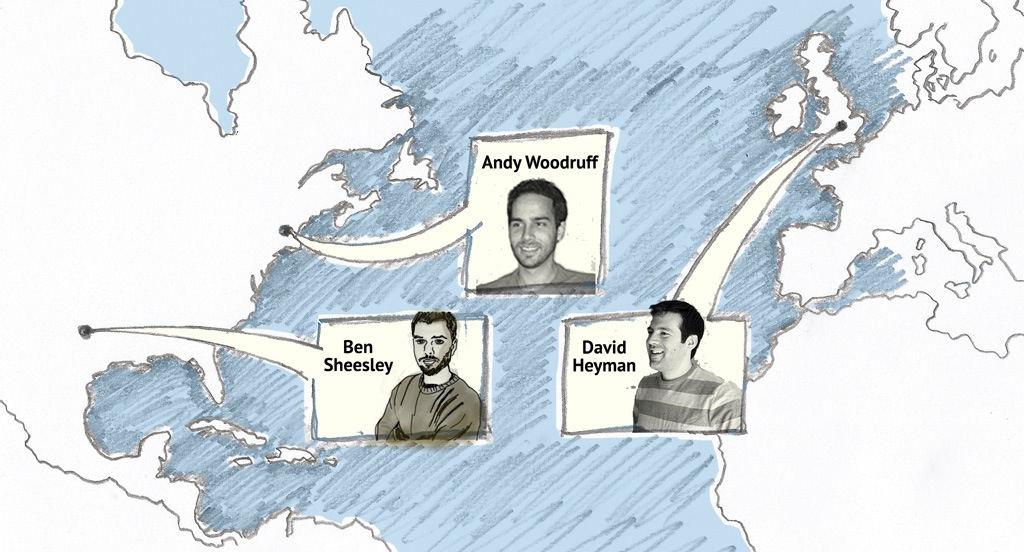
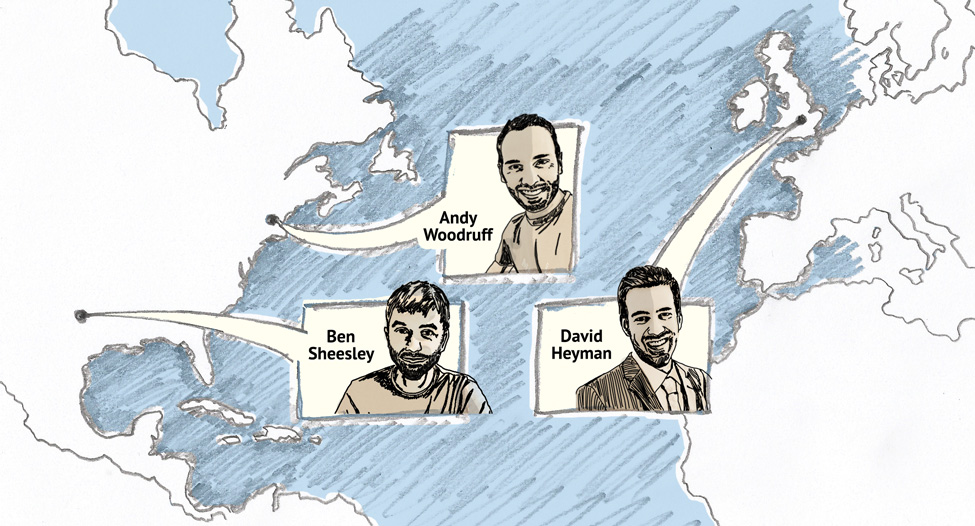
First shot at a finalized company page

Changed region(s): [[0.3077, 0.2129, 0.5846, 0.8213], [0.5538, 0.4867, 0.7385, 0.7909]]

diff --git a/css/main.css b/css/main.css
@@ -670,6 +670,32 @@ p.more span{
 	bottom: 0;
 	color: white;
 }
+
+.headshot{
+	height: 70px;
+	width: 70px;
+	border-radius: 50%;
+	float: left;
+	background-size: cover;
+	margin: 15px -50px 0 0;
+}
+
+.headshot + h3{
+	text-indent: 0;
+}
+
+#andy .headshot{
+	background-image: url(../images/andy.jpg);
+}
+
+#ben .headshot{
+	background-image: url(../images/ben.jpg);
+}
+
+#dave .headshot{
+	background-image: url(../images/dave.jpg);
+}
+
 @media (max-width: 520px) {
 	.logo {
 		width: 70%;

diff --git a/company.php b/company.php
@@ -11,19 +11,45 @@
 		<div id='container'>
 			<?php include('include/header.php'); ?>
 			<?php include('include/nav.php'); ?>
+			<section id="trio">
+				<h2 class="ribbon">We are Axis Maps:</h2>
+				<article id="dave" style="height:auto">
+					<div class="headshot"></div>
+					<h3>Dave</h3>
+					<ul>
+						<li>Managing Director</li>
+						<li>Development backup</li>
+						<li>Chief organizer</li>
+					</ul>
+				</article>
+				<article id="ben" style="height:auto">
+					<div class="headshot"></div>
+					<h3>Ben</h3>
+					<ul>
+						<li>UI and map designer</li>
+						<li>Map store coordinator</li>
+						<li>Stickler for details</li>
+					</ul>
+				</article>
+				<article id="andy" style="height:auto">
+					<div class="headshot"></div>
+					<h3>Andy</h3>
+					<ul>
+						<li>Lead developer</li>
+						<li>Cartographic stalwart</li>
+						<li>Academic cartography ambassador</li>
+				</article>
+			</section>
+			<img src="images/map.jpg" style="width:100%" />
 			<section class='axis-summary' id="history">
-				<h2 class='ribbon'>Company Past</h2>
-				<p>Axis Maps was formed in 2006 by 3 graduate students finishing their advanced degrees in Geography at the University of Wisconsin-Madison. Having originally entered grad school to study traditional print cartography and GIS, we quickly became engaged with the rapidly changing field of interactive mapping. Google Maps had launched the previous spring, while more and more internet users were growing accustomed to having interactive maps as a part of their online lives. However, we were surprised to see that the cartographic fundamentals and traditions we had been studying were largely absent from these new maps. Instead, these maps focused on the technical aspects of delivering geographic content over the web at the expense of clear communication through cartographic design.</p>
-				<p>We formed Axis Maps to bring Cartography to a field that was being dominated by Computer Science. While other companies focused on algorithms, we developed intuitive user-interfaces. Where they were building software to reach the broadest market possible, we designed custom maps to make sure each map was right for our customer.</p>
+				<h2 class='ribbon'>Our Story</h2>
+				<p>Axis Maps was formed in 2006 by 3 graduate students finishing their advanced degrees in Geography at the University of Wisconsin-Madison. Having originally entered grad school to study traditional print cartography and GIS, we quickly became engaged with the rapidly changing field of interactive mapping. Google Maps had launched the previous spring, while more and more internet users were growing accustomed to having interactive maps as a part of their online lives. However, we were surprised to see that the cartographic fundamentals and traditions we had been studying were falling by the wayside. Instead, these new maps focused on the technical aspects of delivering geographic content over the web rather than clear communication through cartographic design.</p>
+				<p>We formed Axis Maps to bring Cartography to what was becoming a technical field. While other companies focused on algorithms, we developed intuitive user-interfaces. Where they were building software to reach the broadest market possible, we designed custom maps to make sure each map was right for our client. We believed that new map technologies could be used not only for efficiency and delivery, but also for great cartographic and interactive design.</p>
 				<p>Since then, we’ve been pleased to work with a diverse range of companies including : Navteq, Embassy of Canada, Commonwealth Fund, Bank of America, Etihad Airways, Emirates Airlines, Hearst Publishing, IPRO, and The New York Times.</p>
 				<p>Our work has been written about and featured in: The Boston Globe, The Atlantic, Gizmodo, Fast Company, and Directions Magazine.</p>
-				<p>After 7 years, our company has grown to include more than just custom interactive maps. In the Spring of 2010, we launched indiemapper (http://indiemapper.com), our first commercial product to help people make better maps. We designed and built indiemapper because we were frustrated with the existing mapping tools and wanted to bring the best practices of cartographic design to the 21st century mapping workflow. More recently, we’ve returned to our roots in manual cartography producing a series of city-posters that accurately depict the streets of a city using nothing but type (http://store.axismaps.com). By weaving together thousands of words, a full picture of the city emerges. Every letter was carefully placed, taking hundreds of hours to complete for each map.</p>
+				<p>After 8 years, our company has grown to include more than just custom interactive maps. In the Spring of 2010, we launched indiemapper (http://indiemapper.com), our first commercial product to help people make better maps. We designed and built indiemapper because we were frustrated with the existing mapping tools and wanted to bring the best practices of cartographic design to the 21st century mapping workflow. More recently, we’ve returned to our roots in manual cartography producing a series of city-posters that accurately depict the streets of a city using nothing but type (http://store.axismaps.com). By weaving together thousands of words, a full picture of the city emerges. Every letter was carefully placed, taking hundreds of hours to complete for each map.</p>
 			</section>
 			<div style="clear:both"></div>
-			<section id="bios">
-				<h2 class='ribbon'>Company Present</h2>
-				<img src="images/map.jpg" />
-			</section>
 			<?php include('include/footer.php'); ?>
 		</div><!-- end container -->
 		<script src="js/jquery.js"></script>
